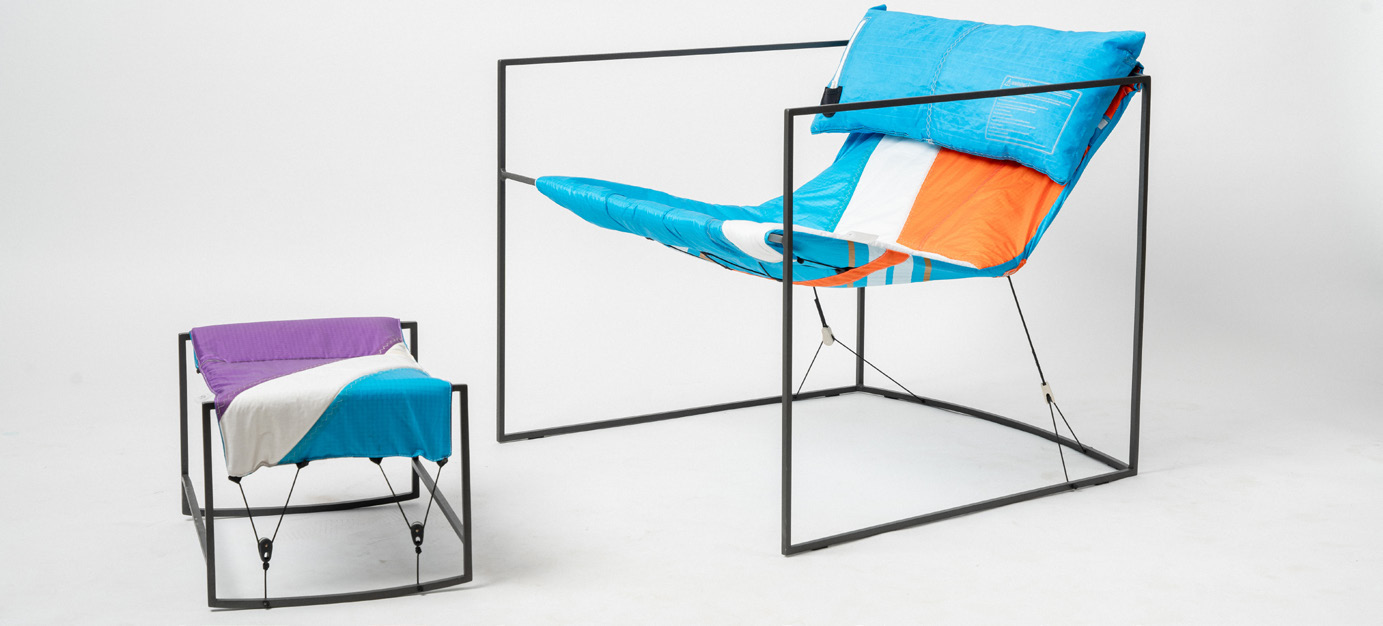
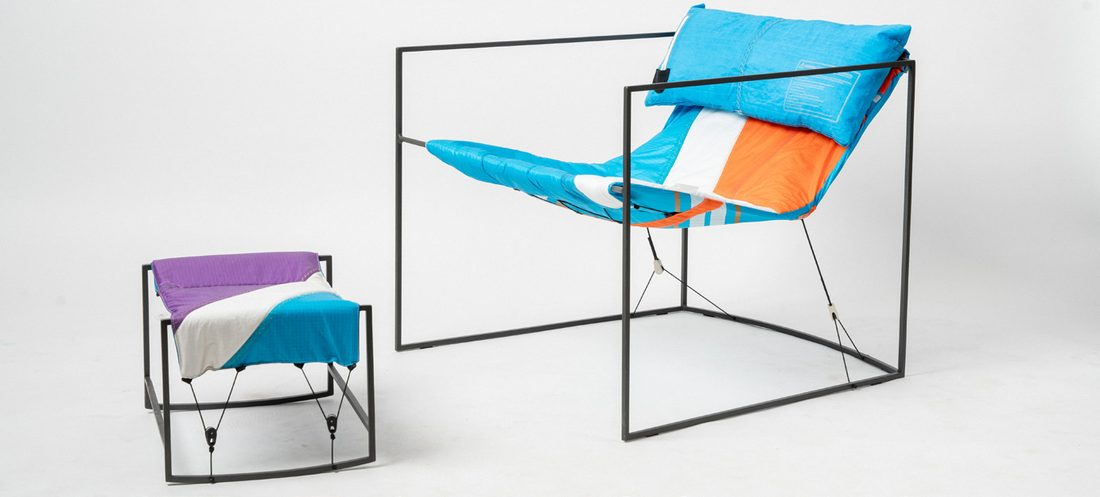
Split Aura into two harmonious sections like the PDF, compress oversized images, fix margin symmetry on wide screens

diff --git a/index.html b/index.html
@@ -46,8 +46,22 @@
         <p class="materials">Materials: Upcycled kitesurfing kites, steel frame.</p>
         <div class="project-gallery">
           <img src="images/aura-group.jpg" alt="AURA chair and matching ottoman">
+        </div>
+      </div>
+    </article>
+
+    <article class="project">
+      <div class="project-photo">
+        <img src="images/aura-2.jpg" alt="AURA chair, front view">
+      </div>
+      <div class="project-text">
+        <h2>01. AURA <span class="divider">|</span> One of A Kite</h2>
+        <p>In kitesurfing, the conditions at sea and constant technological advancements lead to a high turnover of equipment and textile waste of unique size, material, and graphics.</p>
+        <p>Aura gives the discarded kites a second life as furniture, using it for upholstery as well as inner wires and filling. Each item is one of a kind, has a unique individual look thanks to the varying patterns of the original material, and sports a label indicating it is an upcycled item.</p>
+        <p>The project sets out to produce quality products from &ldquo;waste&rdquo;, that can be presented proudly in our homes.</p>
+        <p class="materials">Materials: Upcycled kitesurfing kites, steel frame.</p>
+        <div class="project-gallery">
           <img src="images/aura-label.jpg" alt="AURA upcycled label detail">
-          <img src="images/aura-2.jpg" alt="AURA chair, front view">
         </div>
       </div>
     </article>

diff --git a/style.css b/style.css
@@ -19,7 +19,7 @@ body {
 }
 
 .site-header, main {
-  max-width: 1500px;
+  max-width: 1300px;
   margin-left: auto;
   margin-right: auto;
   padding-left: var(--gutter);
@@ -141,7 +141,11 @@ h1, h2 {
 .project-text {
   flex: 1;
   padding: 60px 0 60px 6vw;
-  max-width: 720px;
+}
+
+.project-text p,
+.project-text .materials {
+  max-width: 640px;
 }
 
 .project-text h2 {
